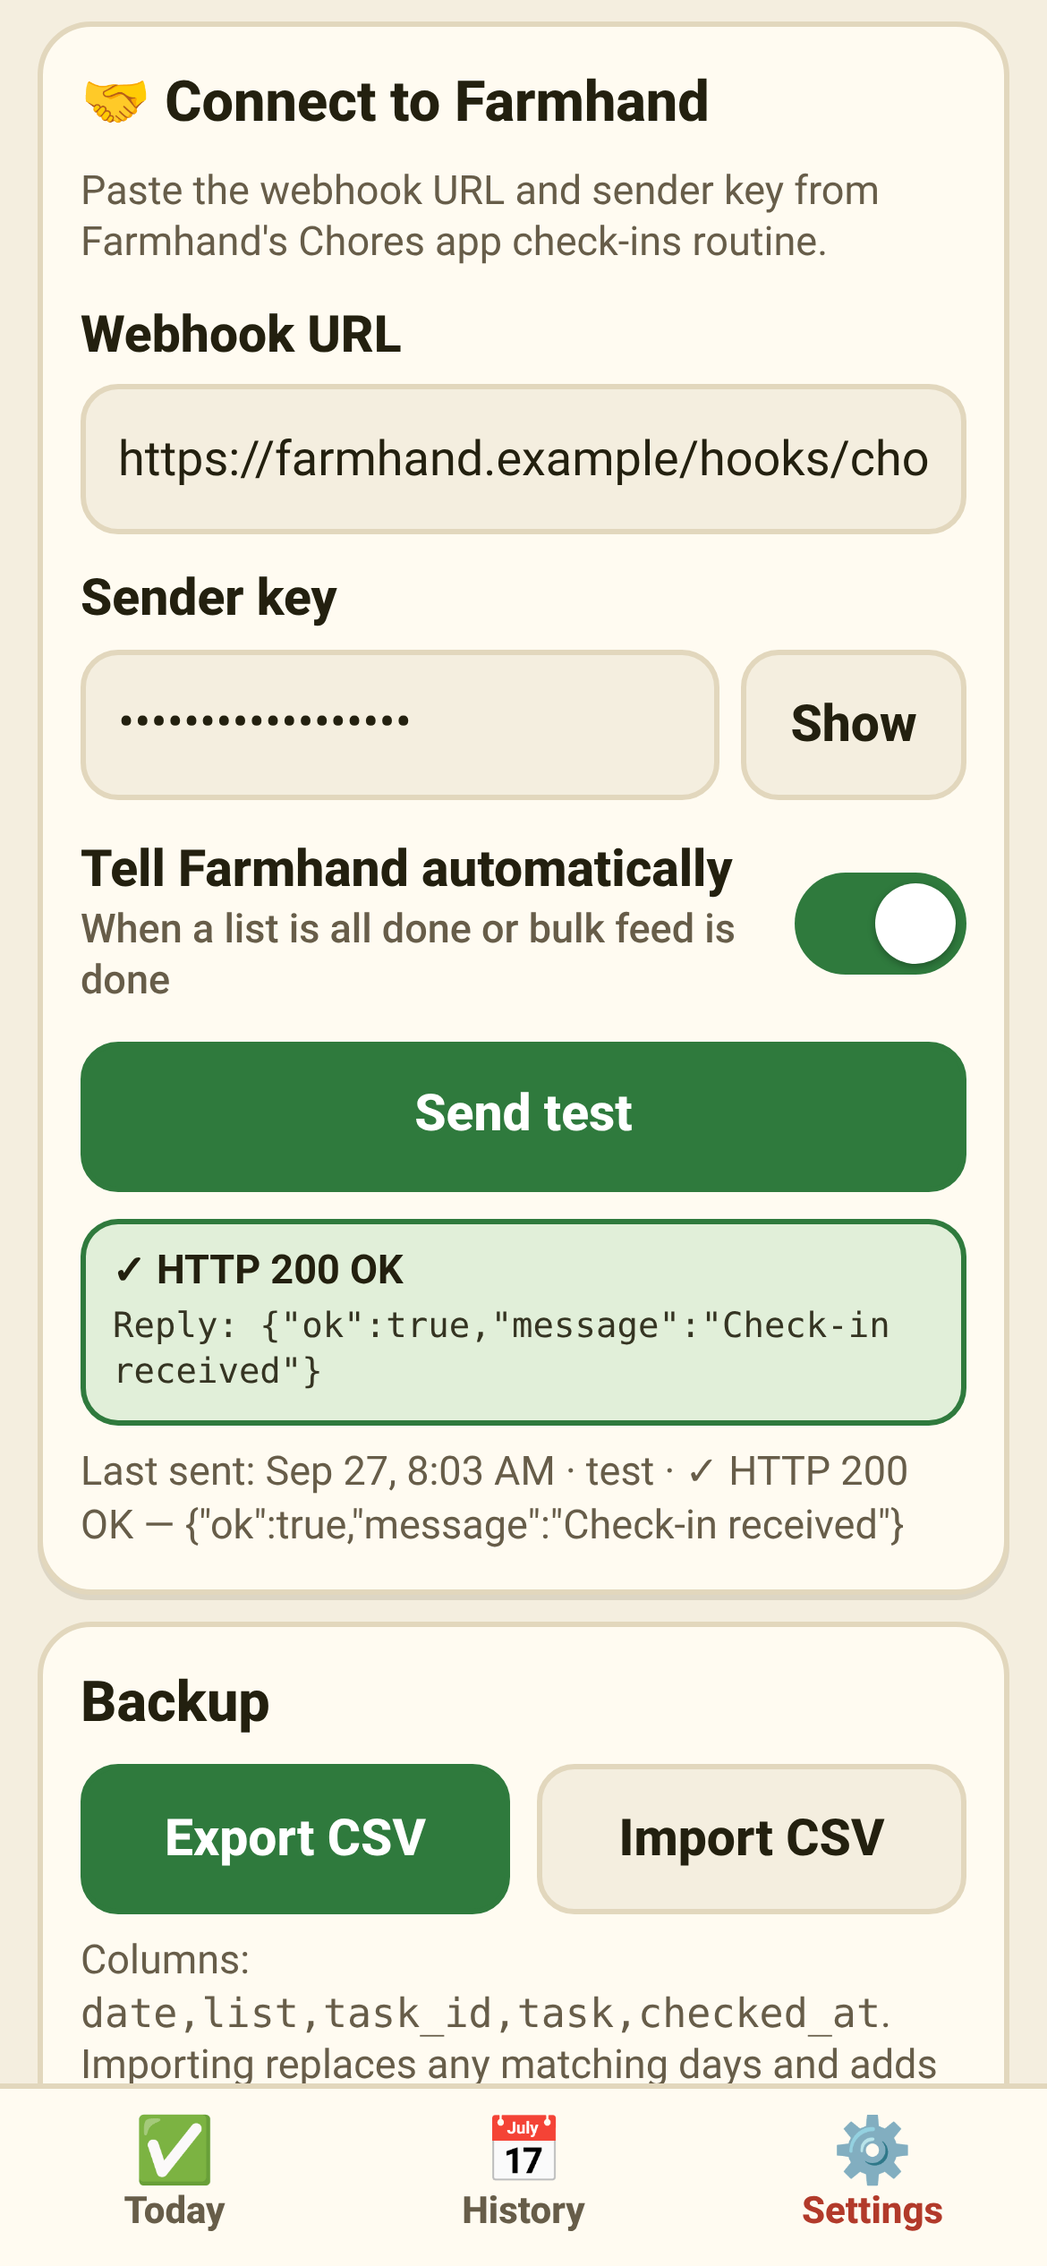
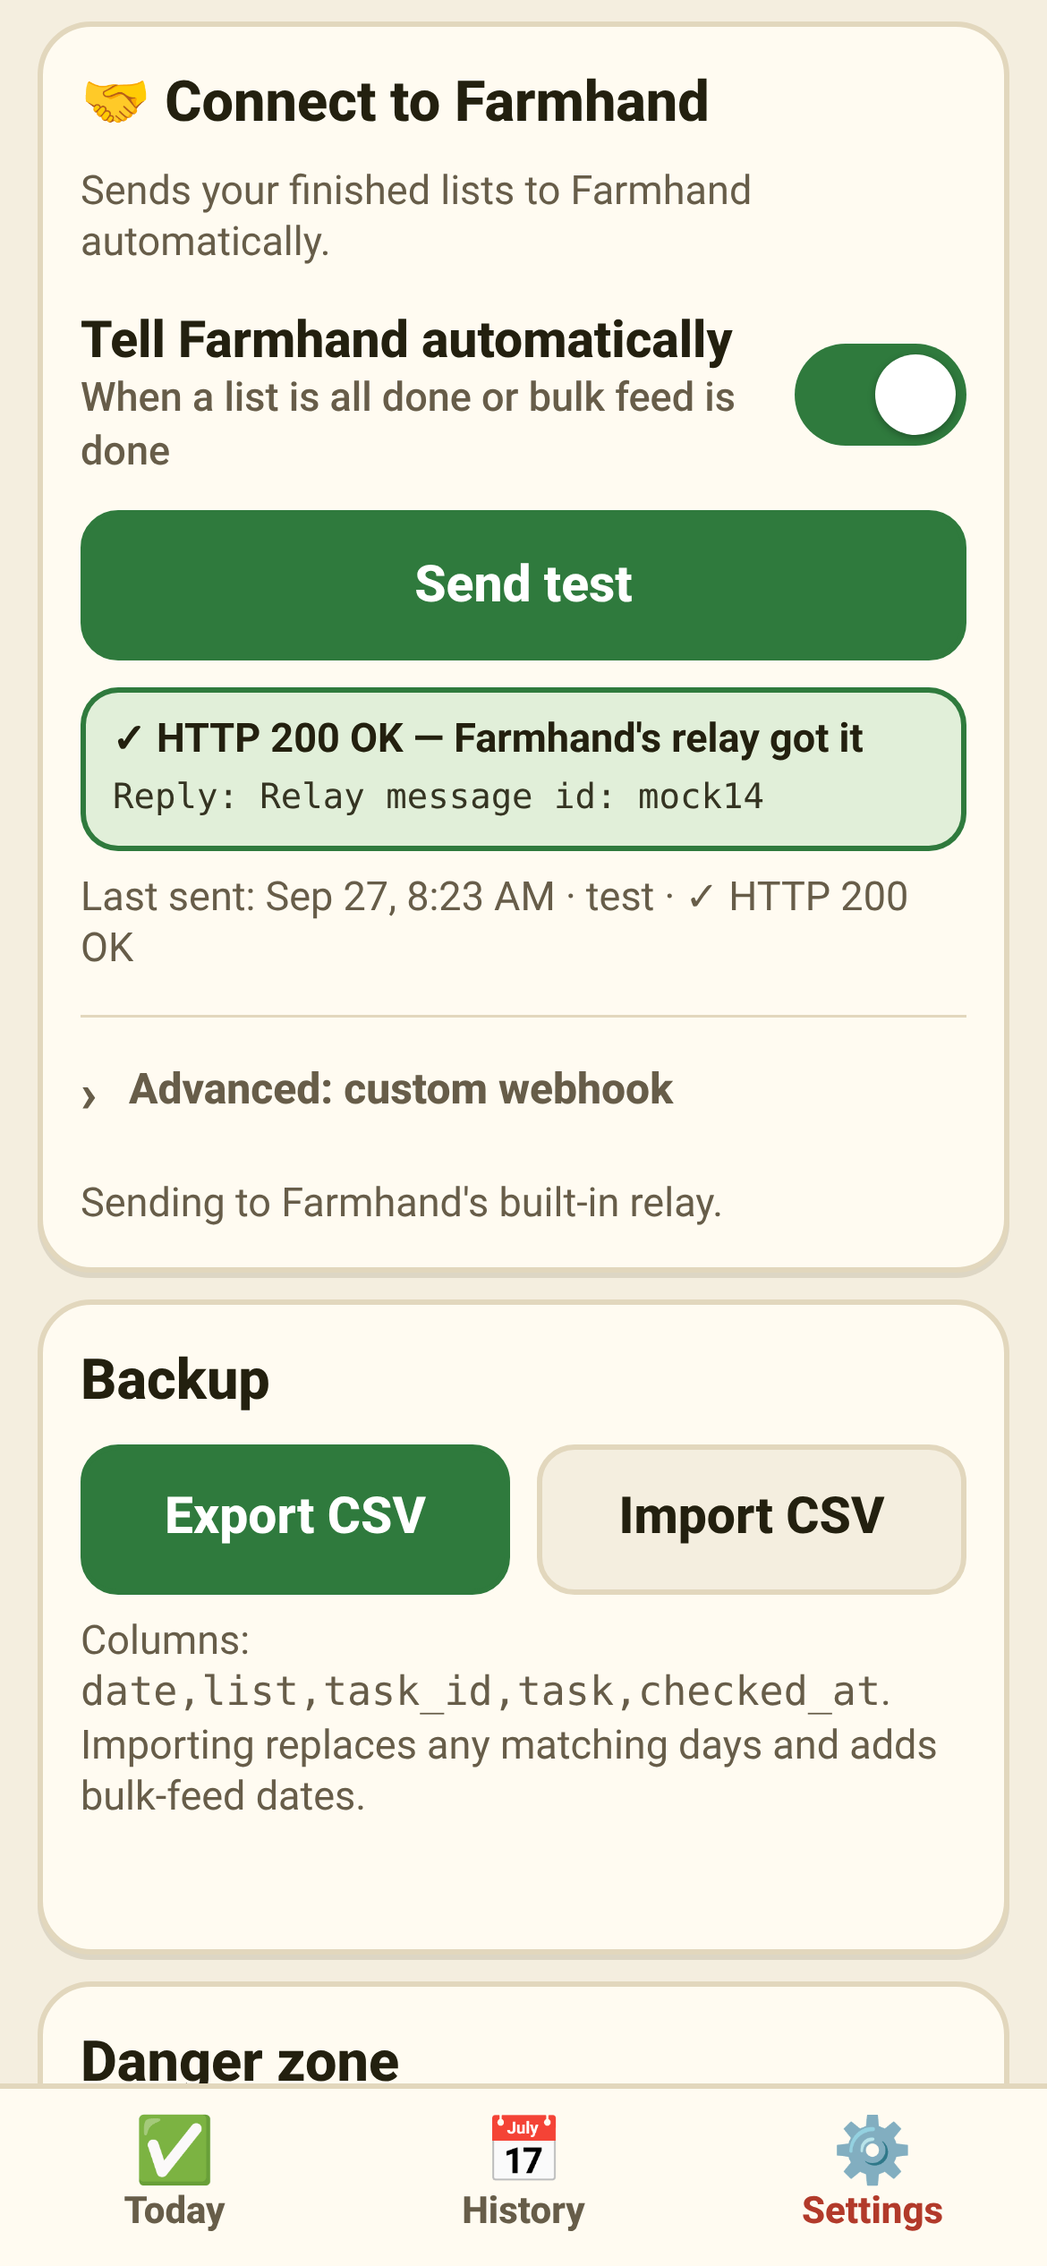
Farmhand relay via ntfy.sh (zero setup, default on); custom webhook under Advanced; SW cache v3

diff --git a/index.html b/index.html
@@ -204,6 +204,11 @@ label.field{display:block;font-weight:800;margin-bottom:6px}
 .hookres code{display:block;font-weight:500;font-size:13px;margin-top:4px;white-space:pre-wrap;opacity:.9}
 .pending{display:flex;align-items:center;gap:10px;margin-top:10px;font-size:15px;font-weight:700;color:var(--warn)}
 .pending span{flex:1}
+.adv{margin-top:14px;border-top:1px solid var(--line);padding-top:4px}
+.adv summary{min-height:48px;display:flex;align-items:center;font-weight:800;font-size:16px;color:var(--muted);cursor:pointer;list-style:none}
+.adv summary::-webkit-details-marker{display:none}
+.adv summary::before{content:"›";display:inline-block;width:18px;font-size:20px;transition:transform .2s}
+.adv[open] summary::before{transform:rotate(90deg)}
 
 /* Tab bar */
 nav{
@@ -338,18 +343,7 @@ nav button[aria-selected=true]{color:var(--barn)}
     </div>
     <div class="card" id="hookCard">
       <h2>🤝 Connect to Farmhand</h2>
-      <p class="note" style="margin-top:0">Paste the webhook URL and sender key from Farmhand's Chores app check-ins routine.</p>
-      <div class="fld">
-        <label class="field" for="hookUrl">Webhook URL</label>
-        <input type="url" id="hookUrl" inputmode="url" autocomplete="off" autocapitalize="off" autocorrect="off" spellcheck="false" placeholder="https://…">
-      </div>
-      <div class="fld">
-        <label class="field" for="hookKey">Sender key</label>
-        <div class="keyrow">
-          <input type="password" id="hookKey" autocomplete="off" autocapitalize="off" autocorrect="off" spellcheck="false" placeholder="Paste key">
-          <button class="btn" id="hookKeyShow" aria-pressed="false">Show</button>
-        </div>
-      </div>
+      <p class="note" style="margin-top:0">Sends your finished lists to Farmhand automatically.</p>
       <div class="tog">
         <label class="tl" for="hookOn">Tell Farmhand automatically<span id="hookOnHint">When a list is all done or bulk feed is done</span></label>
         <input type="checkbox" role="switch" class="switch" id="hookOn">
@@ -358,6 +352,22 @@ nav button[aria-selected=true]{color:var(--barn)}
       <div class="hookres" id="hookResult" role="status" hidden></div>
       <p class="note" id="hookLast"></p>
       <div class="pending" id="hookPending" hidden><span id="hookPendingText"></span><button class="btn sm" id="hookRetry">Retry now</button></div>
+      <details class="adv" id="hookAdv">
+        <summary>Advanced: custom webhook</summary>
+        <p class="note">Leave blank to use Farmhand's built-in relay. If a URL is filled in, updates go there instead.</p>
+        <div class="fld">
+          <label class="field" for="hookUrl">Webhook URL</label>
+          <input type="url" id="hookUrl" inputmode="url" autocomplete="off" autocapitalize="off" autocorrect="off" spellcheck="false" placeholder="https://…">
+        </div>
+        <div class="fld">
+          <label class="field" for="hookKey">Sender key <span class="muted" style="font-weight:500">(optional)</span></label>
+          <div class="keyrow">
+            <input type="password" id="hookKey" autocomplete="off" autocapitalize="off" autocorrect="off" spellcheck="false" placeholder="Paste key">
+            <button class="btn" id="hookKeyShow" aria-pressed="false">Show</button>
+          </div>
+        </div>
+      </details>
+      <p class="note" id="hookDest"></p>
     </div>
     <div class="card">
       <h2>Backup</h2>
@@ -940,37 +950,52 @@ nav button[aria-selected=true]{color:var(--barn)}
   sortLog();
   render();
 
-  // ---------- Farmhand webhook ----------
-  // Stored separately from chore data so CSV/clear-all never touch it. Nothing is hardcoded: URL + key live only on this phone.
+  // ---------- Farmhand connection ----------
+  // Default: Farmhand's ntfy.sh relay topic (low-sensitivity, intentionally public). ntfy allows cross-origin
+  // POSTs, so a plain text/plain POST (a CORS "simple request", no preflight) returns a readable JSON reply.
+  // Optional custom webhook (Advanced) keeps the earlier auth-guessing logic. Stored separately from chore data.
+  var RELAY_URL = "https://ntfy.sh/farmhand-greg-8c3d50dadb17b096";
   var HKEY = "farmChores.hook.v1", QMAX_AGE = 3 * 864e5, TIMEOUT = 15000;
   var LISTOUT = { morning:"morning", evening:"evening", saturday:"deepclean" };
   function hLoad(){
     var h = null; try{ h = JSON.parse(localStorage.getItem(HKEY) || "null"); }catch(e){}
     if (!h || typeof h !== "object") h = {};
     h.url = typeof h.url === "string" ? h.url : ""; h.key = typeof h.key === "string" ? h.key : "";
-    h.enabled = !!h.enabled; h.style = h.style === "nocors" ? "nocors" : "cors";
+    if (h.v !== 3){ h.v = 3; h.enabled = true; }           // relay version: default ON for everyone
+    h.enabled = h.enabled !== false;
+    if (!h.styles || typeof h.styles !== "object") h.styles = {};
     if (!h.sent || typeof h.sent !== "object") h.sent = {};
     if (!Array.isArray(h.queue)) h.queue = [];
+    delete h.style;
     return h;
   }
   var hook = hLoad();
   function hSave(){ try{ localStorage.setItem(HKEY, JSON.stringify(hook)); }catch(e){} }
-  function hReady(){ return !!(hook.url && hook.key); }
-  function hActive(){ return hook.enabled && hReady(); }
+  function dest(){
+    return hook.url ? { kind:"custom", url:hook.url, key:hook.key } : { kind:"relay", url:RELAY_URL, key:"" };
+  }
+  function hActive(){ return hook.enabled; }
   function validUrl(u){ try{ var x = new window.URL(u); return x.protocol === "https:" || x.protocol === "http:"; }catch(e){ return false; } }
+  function clip(s, n){ s = String(s || ""); return s.length > n ? s.slice(0, n - 1) + "…" : s; }
 
   function payloadList(k, l){
     var L = data.lists[l], c = checks(k, l), s = stats(k, l), r = data.days[k];
     var p = { source:"farm-chores-app", event:"list_complete", list:LISTOUT[l], date:k, completedAt:new Date(s.at || Date.now()).toISOString(),
-      done:s.done, total:s.total, tasks:L.tasks.filter(function(t){ return c[t.id]; }).map(function(t){ return t.text; }) };
-    if (r && r.note && r.note.trim()) p.note = r.note.trim();
+      done:s.done, total:s.total, tasks:L.tasks.filter(function(t){ return c[t.id]; }).map(function(t){ return clip(t.text, 120); }) };
+    if (r && r.note && r.note.trim()) p.note = clip(r.note.trim(), 1500); // ntfy turns >4 KB bodies into attachments
     return p;
   }
   function payloadBulk(k){
     var p = { source:"farm-chores-app", event:"bulk_feed_done", date:k, completedAt:new Date().toISOString(), done:1, total:1,
       tasks:["Bulk feed chickens & turkeys"], nextDue:addDays(k, data.bulk.every) };
-    var r = data.days[k]; if (r && r.note && r.note.trim()) p.note = r.note.trim();
+    var r = data.days[k]; if (r && r.note && r.note.trim()) p.note = clip(r.note.trim(), 1500);
     return p;
+  }
+  function titleFor(p){
+    var d = fmt(p.date, { month:"short", day:"numeric" });
+    if (p.event === "list_complete") return ({ morning:"Morning", evening:"Evening", deepclean:"Deep clean" }[p.list] || p.list) + " chores done - " + d;
+    if (p.event === "bulk_feed_done") return "Bulk feed done - " + d;
+    return "Farm Chores test";
   }
   // Queue an event at most once per dedupe id (list+date / bulk+date). Never blocks: network happens later.
   function notify(dedupe, build){
@@ -979,7 +1004,7 @@ nav button[aria-selected=true]{color:var(--barn)}
     var now = Date.now();
     Object.keys(hook.sent).forEach(function(k){ if (now - hook.sent[k] > 60 * 864e5) delete hook.sent[k]; });
     hook.sent[dedupe] = now;
-    hook.queue.push({ id:dedupe, created:Date.now(), tries:0, payload:build() });
+    hook.queue.push({ id:dedupe, created:now, tries:0, payload:build() });
     hSave(); setTimeout(flushQueue, 0); renderHook();
     return true;
   }
@@ -992,21 +1017,33 @@ nav button[aria-selected=true]{color:var(--barn)}
       p.then(function(v){ clearTimeout(t); res(v); }, function(e){ clearTimeout(t); rej(e); });
     });
   }
-  function attempt(style, payload){
-    var body = JSON.stringify(Object.assign({}, payload, { key:hook.key }));
-    if (style === "cors"){
-      return withTimeout(fetch(hook.url, { method:"POST", mode:"cors", cache:"no-store", credentials:"omit", body:body,
-        headers:{ "Content-Type":"application/json", "Authorization":"Bearer " + hook.key, "X-Webhook-Key":hook.key } }))
-        .then(function(res){
-          return res.text().catch(function(){ return ""; }).then(function(txt){
-            return { style:"cors", status:res.status, ok:res.ok, text:(txt || "").replace(/\s+/g, " ").trim().slice(0, 160) };
-          });
-        });
+  function readReply(res){
+    return res.text().catch(function(){ return ""; }).then(function(txt){
+      var o = null; try{ o = JSON.parse(txt); }catch(e){}
+      if (res.ok && o && o.id && o.event === "message") txt = "Relay message id: " + o.id; // ntfy publish reply
+      return { style:"cors", status:res.status, ok:res.ok, text:(txt || "").replace(/\s+/g, " ").trim().slice(0, 160) };
+    });
+  }
+  function attempt(D, style, payload){
+    var opts = { method:"POST", cache:"no-store", credentials:"omit" };
+    if (D.kind === "relay"){
+      // No key, no custom headers. Title goes in ntfy's ?title= param so the request stays preflight-free.
+      var u = new window.URL(D.url); u.searchParams.set("title", titleFor(payload));
+      opts.body = JSON.stringify(payload); opts.headers = { "Content-Type":"text/plain" };
+      opts.mode = style === "cors" ? "cors" : "no-cors";
+      var f = withTimeout(fetch(u.toString(), opts));
+      return style === "cors" ? f.then(readReply) : f.then(function(){ return { style:"nocors", ok:true, unconfirmed:true }; });
     }
-    var u = new window.URL(hook.url); u.searchParams.set("key", hook.key);
-    return withTimeout(fetch(u.toString(), { method:"POST", mode:"no-cors", cache:"no-store", credentials:"omit", body:body,
-      headers:{ "Content-Type":"text/plain" } }))
-      .then(function(){ return { style:"nocors", ok:true, unconfirmed:true }; });
+    var withKey = D.key ? Object.assign({}, payload, { key:D.key }) : payload;
+    opts.body = JSON.stringify(withKey);
+    if (style === "cors"){
+      opts.mode = "cors"; opts.headers = { "Content-Type":"application/json" };
+      if (D.key){ opts.headers["Authorization"] = "Bearer " + D.key; opts.headers["X-Webhook-Key"] = D.key; }
+      return withTimeout(fetch(D.url, opts)).then(readReply);
+    }
+    var u2 = new window.URL(D.url); if (D.key) u2.searchParams.set("key", D.key);
+    opts.mode = "no-cors"; opts.headers = { "Content-Type":"text/plain" };
+    return withTimeout(fetch(u2.toString(), opts)).then(function(){ return { style:"nocors", ok:true, unconfirmed:true }; });
   }
   function errWords(e){
     if (!e) return "Unknown error";
@@ -1014,17 +1051,16 @@ nav button[aria-selected=true]{color:var(--barn)}
     if (e.name === "TypeError") return navigator.onLine === false ? "No internet connection (phone is offline)" : "Network/CORS failure — couldn't reach the server, or it blocks requests from web apps";
     return (e.name || "Error") + ": " + (e.message || "");
   }
-  // Try the remembered style first; on a network/CORS TypeError fall back once to the other style.
+  // Try the remembered style for this destination first; on a network/CORS TypeError fall back once to the other.
   function deliver(payload, preferCors){
-    if (!validUrl(hook.url)) return Promise.resolve({ ok:false, error:"That webhook URL doesn't look right (should start with https://)" });
-    var first = preferCors ? "cors" : hook.style, second = first === "cors" ? "nocors" : "cors";
-    return attempt(first, payload).catch(function(e){
-      if (e && e.name === "TypeError" && !(first === "nocors" && navigator.onLine === false)){
-        return attempt(second, payload).catch(function(e2){ throw e2; });
-      }
+    var D = dest();
+    if (!validUrl(D.url)) return Promise.resolve({ ok:false, error:"That webhook URL doesn't look right (should start with https://)" });
+    var first = preferCors ? "cors" : (hook.styles[D.url] === "nocors" ? "nocors" : "cors"), second = first === "cors" ? "nocors" : "cors";
+    return attempt(D, first, payload).catch(function(e){
+      if (e && e.name === "TypeError" && navigator.onLine !== false) return attempt(D, second, payload);
       throw e;
     }).then(function(r){
-      if (r.style === "nocors" || r.ok || r.status) { hook.style = r.style; }
+      hook.styles[D.url] = r.style;
       return r;
     }, function(e){ return { ok:false, error:errWords(e) }; });
   }
@@ -1039,15 +1075,15 @@ nav button[aria-selected=true]{color:var(--barn)}
   function recordLast(p, r){
     hook.last = { at:Date.now(), what:describe(p), result:resultText(r), text:r.text || "", ok:!!r.ok, unconfirmed:!!r.unconfirmed };
   }
+  function keepStyles(){ var st = hook.styles; hook = hLoad(); Object.assign(hook.styles, st); }
   var flushing = false, flushAgain = false;
   function flushQueue(){
     if (flushing){ flushAgain = true; return; }
     hook = hLoad();
-    var now = Date.now();
-    var before = hook.queue.length;
+    var now = Date.now(), before = hook.queue.length;
     hook.queue = hook.queue.filter(function(q){ return q && q.payload && now - q.created < QMAX_AGE; });
     if (hook.queue.length !== before) hSave();
-    if (!hReady() || !hook.queue.length){ renderHook(); return; }
+    if (!hook.queue.length){ renderHook(); return; }
     flushing = true;
     var items = hook.queue.slice();
     (function next(i){
@@ -1058,7 +1094,7 @@ nav button[aria-selected=true]{color:var(--barn)}
       }
       var item = items[i];
       deliver(item.payload, false).then(function(r){
-        var fresh = hLoad(); fresh.style = hook.style; hook = fresh; // keep edits made meanwhile (url/key/new items)
+        keepStyles(); // re-read so edits made meanwhile (url/key/new items) aren't lost
         recordLast(item.payload, r);
         if (r.ok) hook.queue = hook.queue.filter(function(q){ return q.id !== item.id; });
         else hook.queue.forEach(function(q){ if (q.id === item.id){ q.tries++; q.lastError = resultText(r); } });
@@ -1071,52 +1107,47 @@ nav button[aria-selected=true]{color:var(--barn)}
     if (!$("hookUrl")) return;
     if (document.activeElement !== $("hookUrl")) $("hookUrl").value = hook.url;
     if (document.activeElement !== $("hookKey")) $("hookKey").value = hook.key;
-    var ready = hReady();
-    $("hookOn").disabled = !ready;
+    if (hook.url && !$("hookAdv").open && !$("hookAdv").dataset.touched) $("hookAdv").open = true;
     $("hookOn").checked = hActive();
-    $("hookOnHint").textContent = ready ? "When a list is all done or bulk feed is done" : "Fill in both fields first";
-    $("hookTest").disabled = !ready;
+    $("hookOnHint").textContent = hActive() ? "When a list is all done or bulk feed is done" : "Off — Farmhand won't be told";
     var L = hook.last;
     $("hookLast").textContent = L ? "Last sent: " + new Date(L.at).toLocaleString(undefined, { month:"short", day:"numeric", hour:"numeric", minute:"2-digit" }) +
-      " · " + L.what + " · " + L.result + (L.text ? " — " + L.text.slice(0, 80) : "") : "Last sent: nothing yet";
+      " · " + L.what + " · " + L.result + (L.text && !/^Relay message id/.test(L.text) ? " — " + L.text.slice(0, 80) : "") : "Last sent: nothing yet";
     var n = hook.queue.length;
     $("hookPending").hidden = !n;
     $("hookPendingText").textContent = n + " update" + (n === 1 ? "" : "s") + " waiting to send — will retry automatically";
+    $("hookDest").textContent = hook.url ? "Sending to your custom webhook." : "Sending to Farmhand's built-in relay.";
   }
   function showResult(r){
     var el = $("hookResult");
     el.hidden = false;
     el.className = "hookres " + (r.ok && !r.unconfirmed ? "good" : r.unconfirmed ? "meh" : "bad");
-    el.textContent = resultText(r);
+    el.textContent = resultText(r) + (r.ok && !r.unconfirmed && dest().kind === "relay" ? " — Farmhand's relay got it" : "");
     if (r.text){ var c = document.createElement("code"); c.textContent = "Reply: " + r.text; el.appendChild(c); }
     else if (r.status){ var c2 = document.createElement("code"); c2.textContent = "(empty reply)"; el.appendChild(c2); }
   }
-  $("hookUrl").addEventListener("input", function(){
-    var was = hReady(); hook = hLoad(); hook.url = this.value.trim();
-    if (!was && hReady()) hook.enabled = true; hSave(); renderHook();
-  });
-  $("hookKey").addEventListener("input", function(){
-    var was = hReady(); hook = hLoad(); hook.key = this.value.trim();
-    if (!was && hReady()) hook.enabled = true; hSave(); renderHook();
-  });
+  $("hookAdv").addEventListener("toggle", function(){ this.dataset.touched = "1"; });
+  $("hookUrl").addEventListener("input", function(){ hook = hLoad(); hook.url = this.value.trim(); hSave(); renderHook(); });
+  $("hookKey").addEventListener("input", function(){ hook = hLoad(); hook.key = this.value.trim(); hSave(); renderHook(); });
   $("hookKeyShow").addEventListener("click", function(){
     var k = $("hookKey"), show = k.type === "password";
     k.type = show ? "text" : "password"; this.textContent = show ? "Hide" : "Show"; this.setAttribute("aria-pressed", String(show));
   });
-  $("hookOn").addEventListener("change", function(){ hook = hLoad(); hook.enabled = this.checked && hReady(); hSave(); renderHook(); if (hook.enabled) flushQueue(); });
+  $("hookOn").addEventListener("change", function(){ hook = hLoad(); hook.enabled = this.checked; hSave(); renderHook(); if (hook.enabled) flushQueue(); });
+  function sendTest(note){
+    hook = hLoad();
+    var p = { source:"farm-chores-app", event:"test", date:todayKey(), completedAt:new Date().toISOString(), done:0, total:0, tasks:[], note:note || "Test from the Farm Chores app" };
+    return deliver(p, true).then(function(r){
+      keepStyles(); recordLast(p, r); hSave(); renderHook();
+      if (r.ok) flushQueue();
+      return r;
+    });
+  }
   $("hookTest").addEventListener("click", function(){
-    var btn = this; hook = hLoad();
-    if (!hReady()) return;
+    var btn = this;
     btn.disabled = true; btn.textContent = "Sending…";
     var el = $("hookResult"); el.hidden = false; el.className = "hookres"; el.textContent = "Sending test…";
-    var p = { source:"farm-chores-app", event:"test", date:todayKey(), completedAt:new Date().toISOString(), done:0, total:0, tasks:[], note:"Test from the Farm Chores app" };
-    deliver(p, true).then(function(r){
-      var st = hook.style; hook = hLoad(); hook.style = st;
-      recordLast(p, r); hSave();
-      btn.disabled = false; btn.textContent = "Send test";
-      showResult(r); renderHook();
-      if (r.ok) flushQueue();
-    });
+    sendTest().then(function(r){ btn.disabled = false; btn.textContent = "Send test"; showResult(r); });
   });
   $("hookRetry").addEventListener("click", flushQueue);
   window.addEventListener("online", flushQueue);
@@ -1130,7 +1161,7 @@ nav button[aria-selected=true]{color:var(--barn)}
   }
 
   // test hook
-  window.__chores = { hook:function(){ return hLoad(); }, flush:flushQueue, todayKey:todayKey, addDays:addDays, toCSV:toCSV, bulkStatus:bulkStatus, streak:streak, sel:function(){ return sel; } };
+  window.__chores = { hook:function(){ return hLoad(); }, flush:flushQueue, sendTest:sendTest, todayKey:todayKey, addDays:addDays, toCSV:toCSV, bulkStatus:bulkStatus, streak:streak, sel:function(){ return sel; } };
 })();
 </script>
 </body>

diff --git a/sw.js b/sw.js
@@ -1,5 +1,5 @@
 // Offline cache for Farm Chores. Network-first for the page so updates arrive; cache fallback when offline.
-var CACHE = "farm-chores-v2";
+var CACHE = "farm-chores-v3";
 var ASSETS = ["./", "./index.html", "./manifest.json", "./apple-touch-icon.png", "./icon-512.png"];
 self.addEventListener("install", function(e){
   e.waitUntil(caches.open(CACHE).then(function(c){ return c.addAll(ASSETS); }).then(function(){ return self.skipWaiting(); }));
